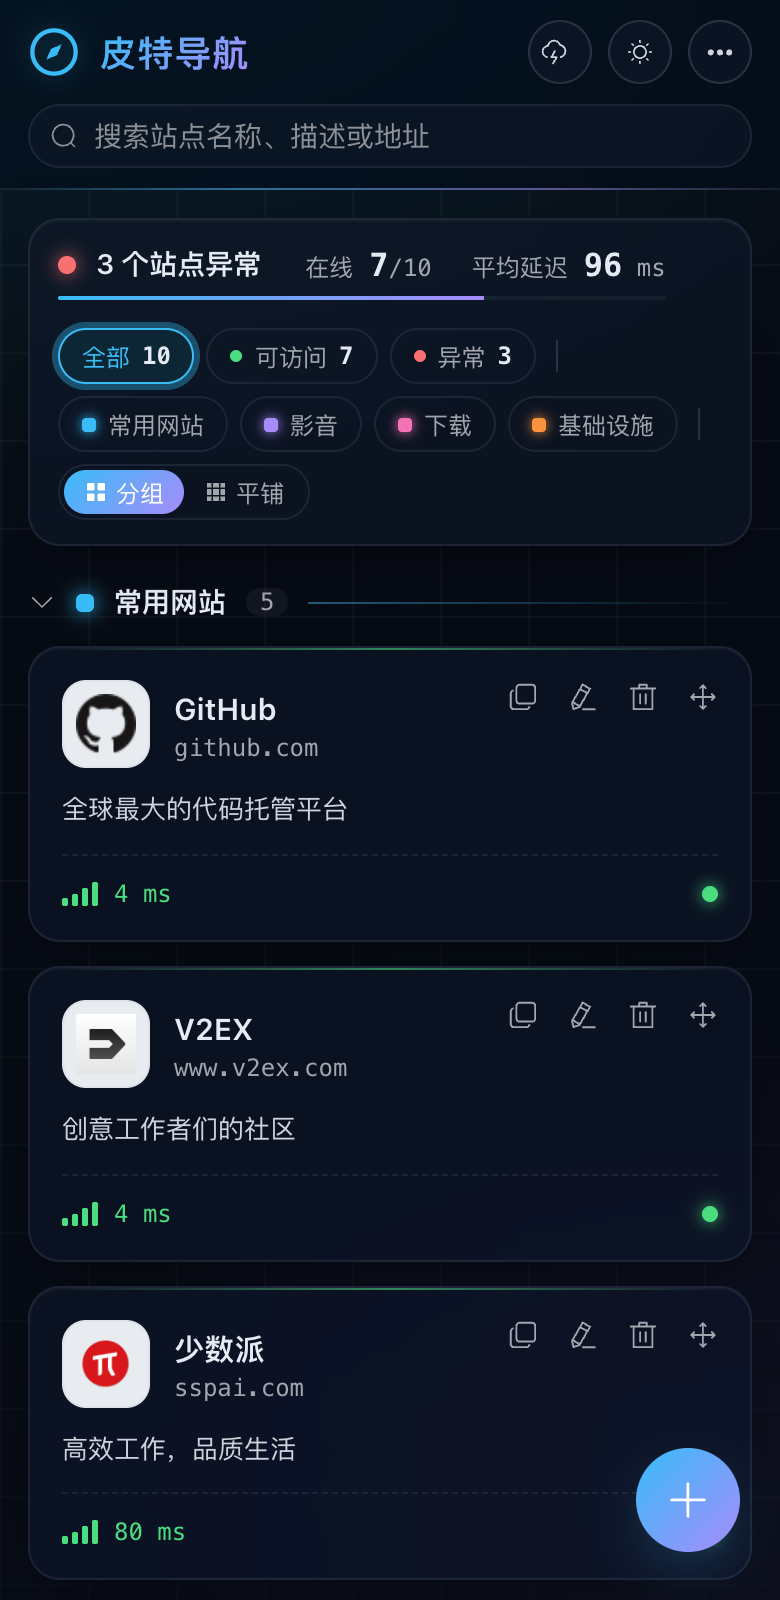
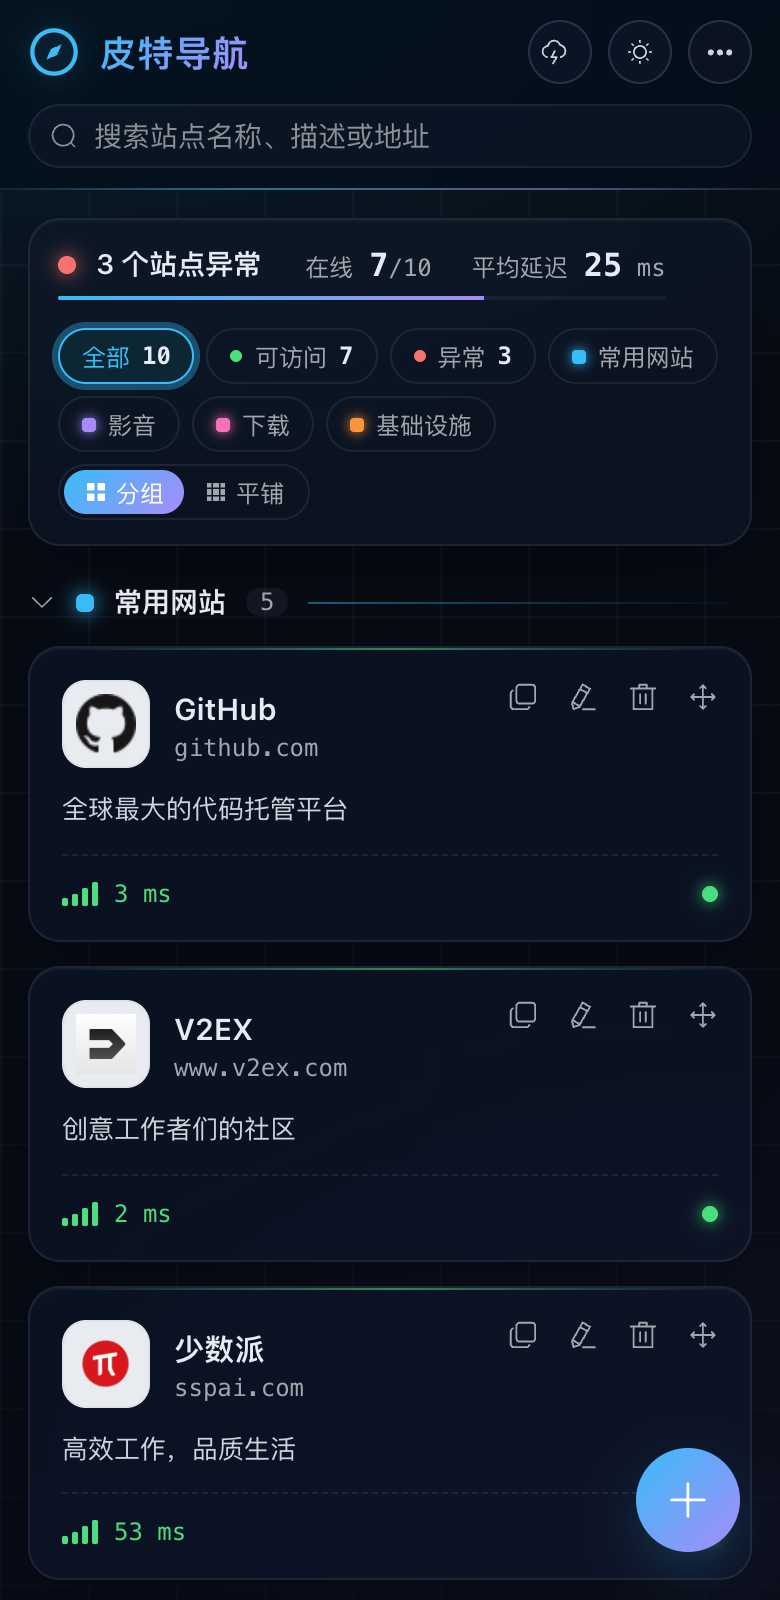
更新网站图标与 README
- 新的网站图标：与顶部罗盘 logo 一致的深色圆角底 + 青紫渐变罗盘，提供 SVG、多尺寸 ICO 和 iOS 主屏幕图标，并设置深浅色主题色
- README 重写：新 logo、按标签分组的最新截图（深色 / 浅色 / 添加站点 / 移动端）、按类别整理的功能说明、Portainer 升级步骤、标签相关常见问题、脚本调用接口的说明
- 修复状态面板移动端样式中混入的重复规则，并在移动端隐藏分隔线

diff --git a/frontend/src/components/StatusFilter.vue b/frontend/src/components/StatusFilter.vue
@@ -303,55 +303,8 @@ const overall = computed(() => {
     padding: 12px 14px;
   }
 
-  .chip.tag i {
-  width: 7px;
-  height: 7px;
-  border-radius: 2px;
-  background: var(--tag);
-  box-shadow: 0 0 6px var(--tag);
-}
-
-.chip.tag.active {
-  border-color: var(--tag);
-  color: var(--el-text-color-primary);
-  background: color-mix(in srgb, var(--tag) 14%, transparent);
-  box-shadow: 0 0 0 3px color-mix(in srgb, var(--tag) 22%, transparent);
-}
-
-.sep {
-  width: 1px;
-  height: 16px;
-  margin: 0 4px;
-  background: var(--nav-border-strong);
-}
-
-.view-toggle {
-  display: inline-flex;
-  padding: 2px;
-  border-radius: 999px;
-  border: 1px solid var(--nav-border);
-}
-
-.view-toggle button {
-  display: inline-flex;
-  align-items: center;
-  gap: 4px;
-  height: 22px;
-  padding: 0 10px;
-  border: none;
-  border-radius: 999px;
-  background: transparent;
-  color: var(--el-text-color-secondary);
-  font-size: 12px;
-  cursor: pointer;
-}
-
-.view-toggle button.active {
-  background: var(--nav-gradient);
-  color: #fff;
-}
-
-.hint {
+  .hint,
+  .sep {
     display: none;
   }
 }

diff --git a/frontend/index.html b/frontend/index.html
@@ -2,7 +2,11 @@
 <html lang="zh-CN">
   <head>
     <meta charset="UTF-8">
-    <link rel="icon" href="/favicon.ico">
+    <link rel="icon" href="/favicon.svg" type="image/svg+xml">
+    <link rel="icon" href="/favicon.ico" sizes="any">
+    <link rel="apple-touch-icon" href="/apple-touch-icon.png">
+    <meta name="theme-color" content="#060a13" media="(prefers-color-scheme: dark)">
+    <meta name="theme-color" content="#f3f6fc" media="(prefers-color-scheme: light)">
     <meta name="viewport" content="width=device-width, initial-scale=1.0">
     <meta name="description" content="皮特导航 - 站点导航与管理">
     <title>皮特导航</title>

diff --git a/README.md b/README.md
@@ -1,28 +1,50 @@
-# 皮特导航
+<p align="center">
+  <img src="frontend/public/favicon.svg" width="76" alt="皮特导航">
+</p>
 
-[![Build](https://github.com/manone2077/Navigator/actions/workflows/docker-image.yml/badge.svg)](https://github.com/manone2077/Navigator/actions/workflows/docker-image.yml)
-[![Docker Pulls](https://img.shields.io/docker/pulls/greatpower/navigator)](https://hub.docker.com/r/greatpower/navigator)
-[![Version](https://img.shields.io/github/v/tag/manone2077/Navigator?label=version)](https://github.com/manone2077/Navigator/tags)
+<h1 align="center">皮特导航</h1>
 
-轻量的自托管站点导航，适合在 NAS / 家庭服务器上管理内网服务和常用网站。
+<p align="center">轻量的自托管站点导航，适合在 NAS / 家庭服务器上管理内网服务和常用网站</p>
 
-![主界面](images/nav.png)
+<p align="center">
+  <a href="https://github.com/manone2077/Navigator/actions/workflows/docker-image.yml"><img src="https://github.com/manone2077/Navigator/actions/workflows/docker-image.yml/badge.svg" alt="Build"></a>
+  <a href="https://hub.docker.com/r/greatpower/navigator"><img src="https://img.shields.io/docker/pulls/greatpower/navigator" alt="Docker Pulls"></a>
+  <a href="https://github.com/manone2077/Navigator/tags"><img src="https://img.shields.io/github/v/tag/manone2077/Navigator?label=version" alt="Version"></a>
+</p>
 
-| 添加站点 | 移动端 |
-| --- | --- |
-| ![添加站点](images/nav-dialog.png) | <img src="images/nav-mobile.png" width="260" alt="移动端"> |
+![按标签分组（深色模式）](images/nav.png)
+
+| 浅色模式 | 添加站点 | 移动端 |
+| --- | --- | --- |
+| ![浅色模式](images/nav-light.png) | ![添加站点](images/nav-dialog.png) | <img src="images/nav-mobile.png" width="200" alt="移动端"> |
 
 ## 功能
 
-- 标签分组：一个站点可以有多个标签，自动按标签分组显示；添加站点时选择或直接新建标签，在「…」菜单 →「管理标签」中预定义、改名、改颜色、调整分组顺序
-- 自动获取站点名称和图标（支持自签名证书、非根路径图标），也可手动上传
-- 测速并提示失败原因，后台每 10 分钟自动测速，点击延迟标签可单独重测
-- 拖拽排序（分组内拖动）、搜索（`/` 聚焦）、按状态或标签筛选，可切换分组 / 平铺视图
-- 导出 / 导入备份（包含图标和标签）
-- 可选访问密码与访客只读模式
-- 深色模式、移动端适配，支持 `amd64` / `arm64`
+**整理站点**
+- 标签分组：一个站点可以有多个标签，自动按标签分组显示，分组可折叠
+- 添加站点时选择已有标签，或输入名称直接新建；在「…」→「管理标签」中预定义标签、改名、改颜色、拖动调整分组顺序
+- 拖拽排序、搜索（按 `/` 聚焦）、按状态或标签筛选，可切换分组 / 平铺视图
+
+**添加更省事**
+- 填写地址后自动获取站点名称和图标（支持自签名证书、非根路径图标），也可手动上传
+- 只输入 `192.168.1.2:8080` 时自动补全为 `http://`，`443 / 8443 / 9443 / 8006` 端口和公网域名补全为 `https://`
+
+**状态一目了然**
+- 测速显示信号格和延迟，后台每 10 分钟自动测速，点击延迟可单独重测
+- 不可达时提示原因：连接被拒绝 / 无法路由到主机 / 域名无法解析 / 超时
+- 状态面板显示整体状态、在线比例和平均延迟
+
+**安全与数据**
+- 可选访问密码，并可开放访客只读浏览
+- 导出 / 导入 JSON 备份，包含图标和标签，可迁移到其它实例
+
+**其它**
+- 深色 / 浅色模式（默认跟随系统），移动端适配
+- 镜像支持 `amd64` / `arm64`，内置健康检查
 
 ## 部署
+
+**Docker Compose / Portainer Stack**
 
 ```yaml
 services:
@@ -39,7 +61,14 @@ services:
     #   - NAV_GUEST_VIEW=true      # 未登录也可只读浏览
 ```
 
-或使用命令：`docker run -d --name MyNavigator --restart always -p 9000:80 -v /your/path/config:/app/data greatpower/navigator:latest`
+**Docker 命令**
+
+```shell
+docker run -d --name MyNavigator --restart always -p 9000:80 \
+  -v /your/path/config:/app/data greatpower/navigator:latest
+```
+
+启动后访问 `http://你的IP:9000/`。
 
 | 环境变量 | 说明 |
 | --- | --- |
@@ -48,13 +77,23 @@ services:
 | `JAVA_OPTS` | JVM 参数，默认 `-XX:+UseSerialGC -Xss512k -Xms32m -Xmx192m` |
 | `TZ` | 时区，默认 `Asia/Shanghai` |
 
-数据保存在 `/app/data`（`db/` 为数据库，`public/images/` 为图标），升级时拉取新镜像并重建容器即可，数据会自动迁移。建议升级前先在「…」菜单中导出备份。
+数据都保存在 `/app/data`（`db/` 为数据库，`public/images/` 为图标），备份或迁移时复制整个目录即可。
+
+## 升级
+
+拉取新镜像并重建容器即可，数据会自动升级（每次发布前都会自动测试从上一版本升级）。建议升级前先在「…」菜单中导出备份。
+
+- **Portainer**：容器页面点击 **Recreate** 并勾选 **Re-pull image**，或在 Stack 中 **Update the stack** 并勾选 **Re-pull image**
+- **Docker**：`docker pull greatpower/navigator:latest`，然后删除并用相同的数据目录重新创建容器
 
 ## 常见问题
 
-- **图标显示为文字头像**：站点没有图标或容器无法访问该站点。可在编辑时点击「自动获取」，或手动上传。
-- **显示「不可达 / 超时」但浏览器能打开**：测速由容器发起，悬停延迟标签可查看原因，请确认容器网络能访问该地址。
+- **图标显示为文字头像**：站点没有图标或容器无法访问该站点。编辑站点时点击「自动获取」，或手动上传；「…」→「重新获取图标」可批量重试。
+- **显示「不可达 / 超时」但浏览器能打开**：测速由容器发起，悬停在延迟上可查看原因，请确认容器网络能访问该地址（不同网段、防火墙等）。
+- **同一个站点出现在多个分组**：站点有多个标签时会在每个对应分组中显示；不想这样可以切换到「平铺」视图。
+- **删除标签会删除站点吗**：不会，只会移除该标签；没有标签的站点显示在「未分组」。
 - **忘记密码**：修改 `NAV_PASSWORD` 后重建容器即可。
+- **用脚本调用接口**：读取接口为 GET（如 `/api/all`、`/api/tags`）；修改类接口只接受 POST，并需要带请求头 `X-Requested-With: XMLHttpRequest`（防止跨站请求伪造），设置了密码时还需先登录。
 
 ## 开发
 
@@ -78,4 +117,5 @@ Navigator/
 
 - [ ] 直接添加 PT 站点
 - [ ] 支持代理访问
-- [x] 标签分组、单个删除、备份、访问密码、Docker 自动部署
+- [x] 标签分组
+- [x] 单个删除、备份导入导出、访问密码、Docker 自动部署
